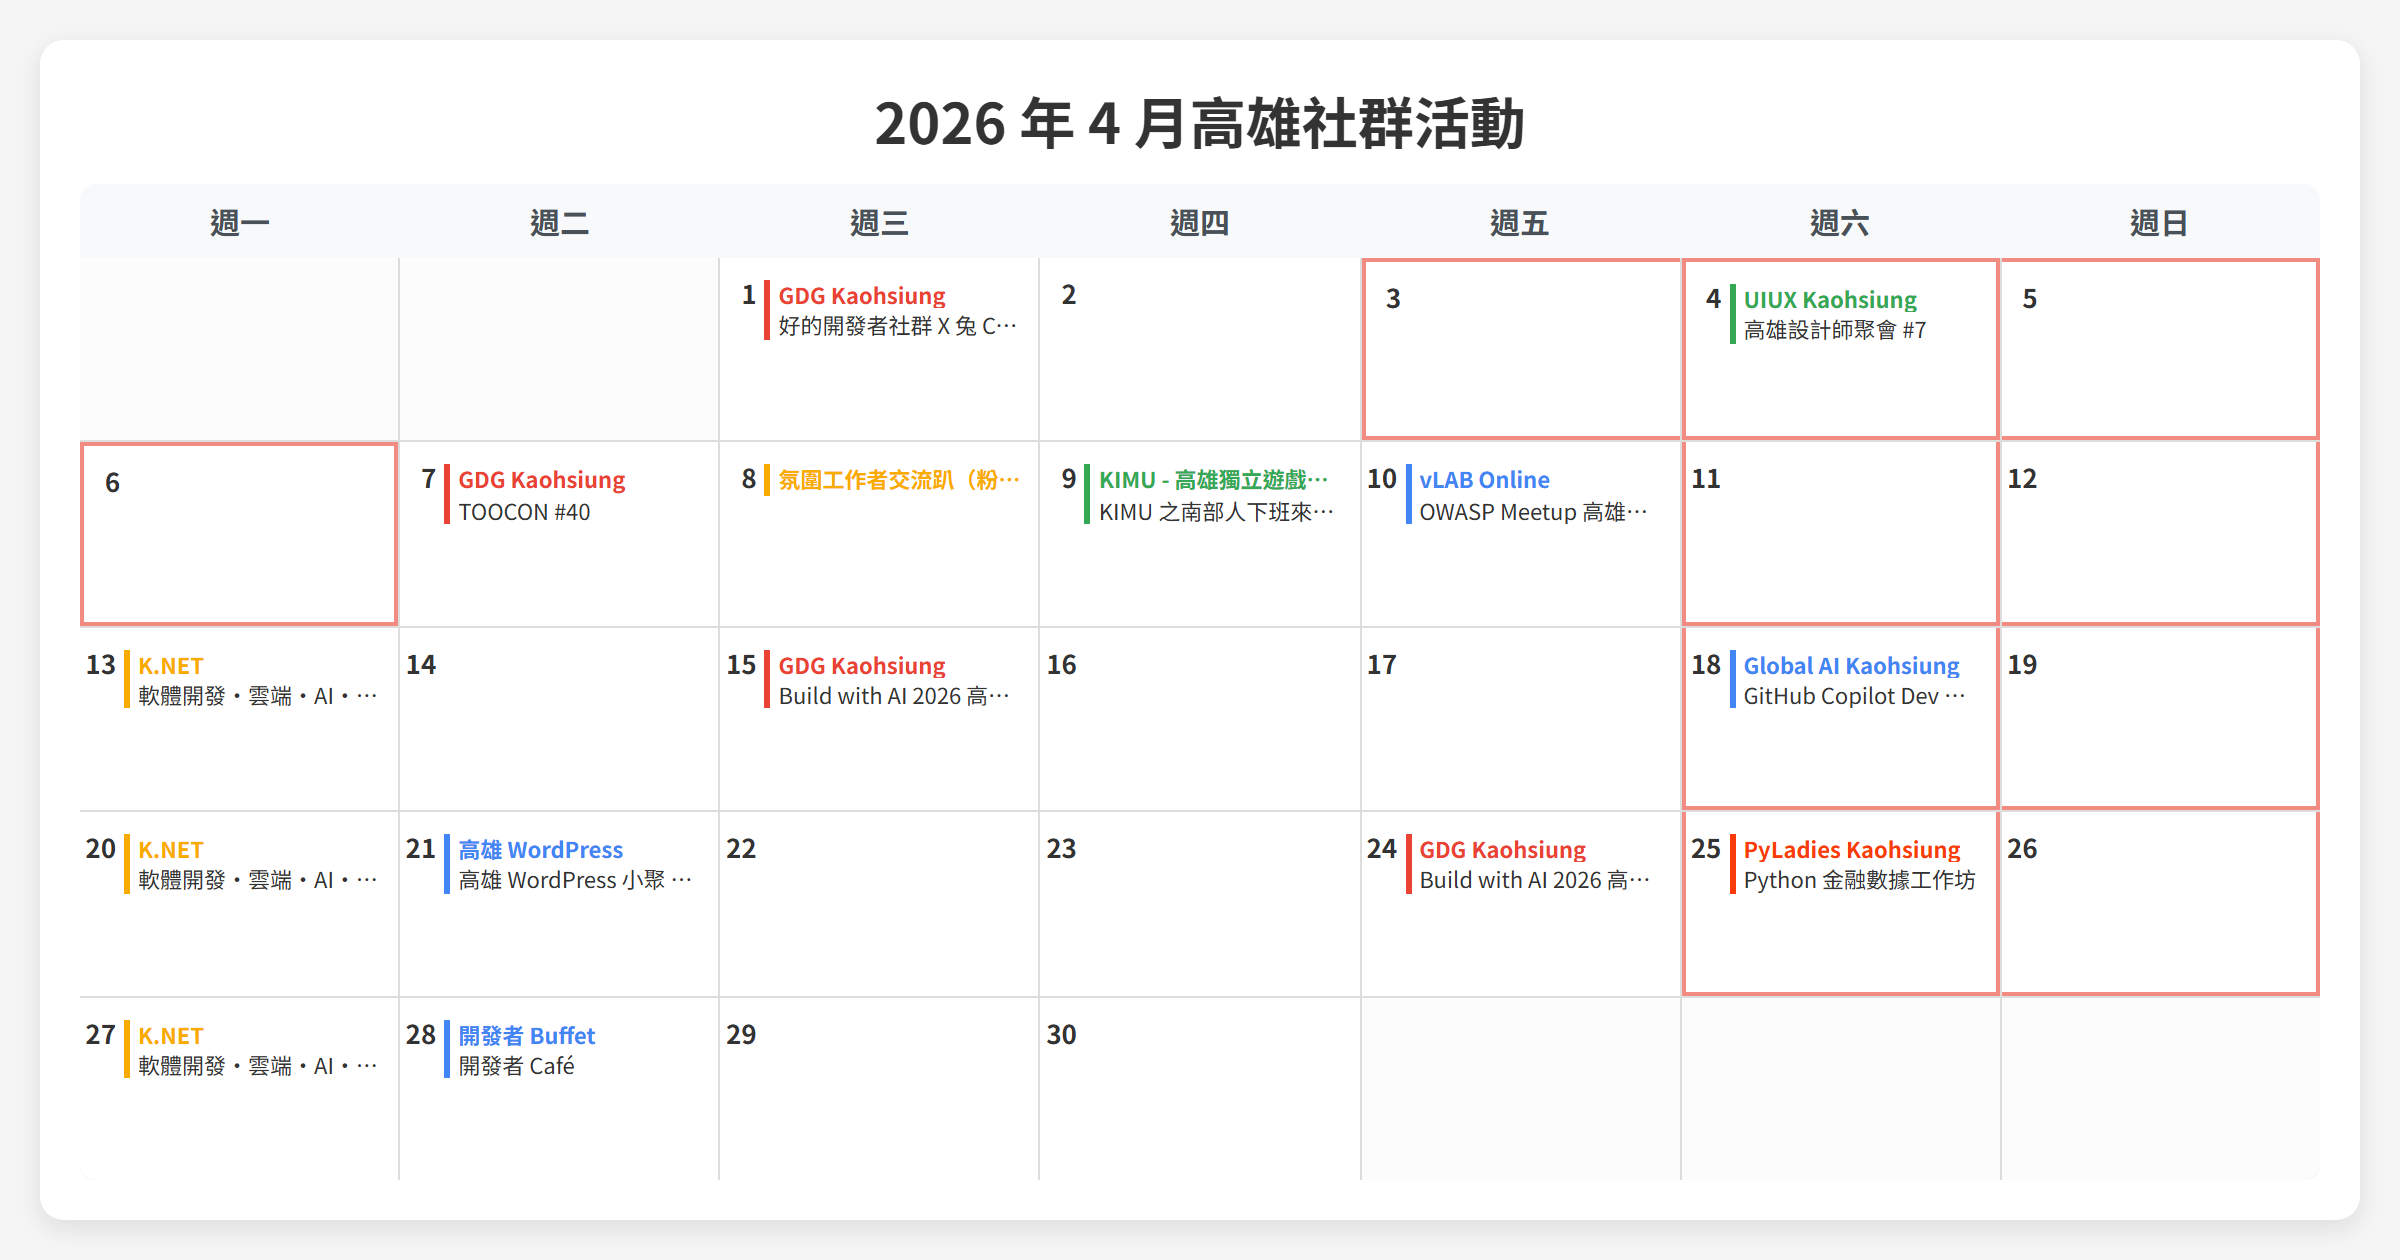
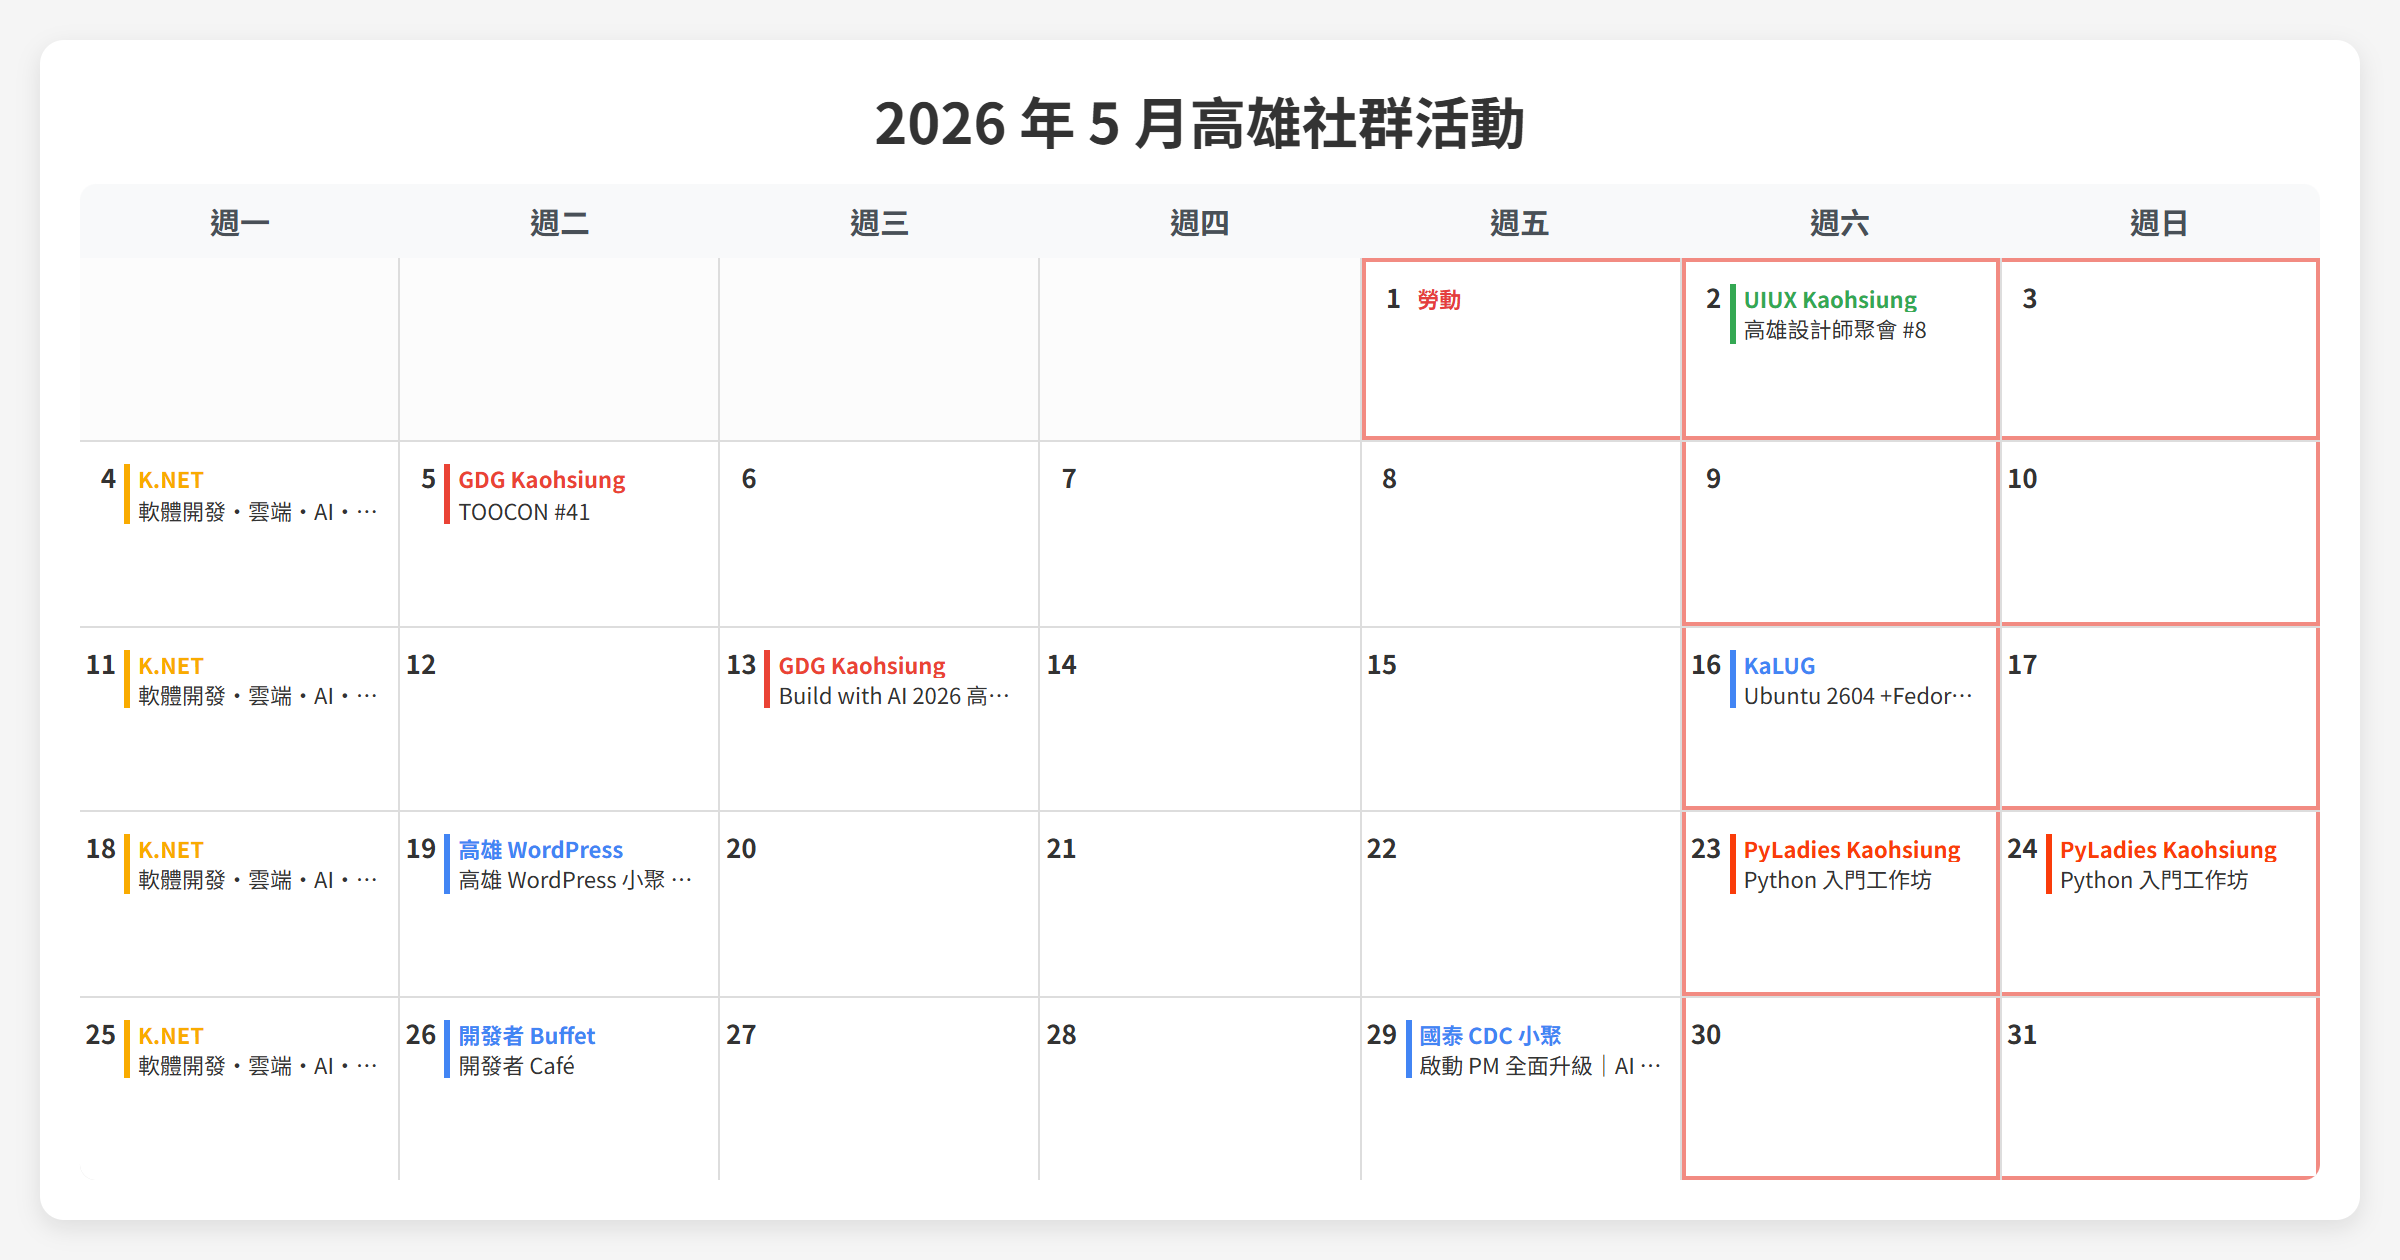
fix: 修正 OG 圖片月曆空白並補上假日名稱顯示
scripts/calendar-template.html 中 {{HOLIDAYS_JSON}} 佔位符被斷行成 `{ { HOLIDAYS_JSON } }`，導致 generate-og-images.js 的取代正則無法命中，瀏覽器執行時拋出 ReferenceError，renderCalendar() 中止使整個月曆格子空白。

- 修復佔位符為單行 {{HOLIDAYS_JSON}}
- 改用 holidayMap 對齊 2026/calendar.html 作法
- 新增 .date-row / .holiday-label 樣式並於假日格顯示假日名稱

diff --git a/scripts/calendar-template.html b/scripts/calendar-template.html
@@ -152,6 +152,29 @@
             padding-top: 0;
         }
 
+        .date-row {
+            display: flex;
+            align-items: baseline;
+            gap: 4px;
+            margin-bottom: 0;
+            min-width: 0;
+            overflow: hidden;
+        }
+
+        .date-row .date-number {
+            margin-bottom: 0;
+        }
+
+        .holiday-label {
+            font-size: 11px;
+            color: #e53e3e;
+            font-weight: bold;
+            overflow: hidden;
+            white-space: nowrap;
+            text-overflow: ellipsis;
+            min-width: 0;
+        }
+
         .events-container {
             flex: 1;
             display: flex;
@@ -220,7 +243,7 @@
         }
         }
         ;
-        const holidaySet = new Set(holidays.map(h => h.date));
+        const holidayMap = new Map(holidays.map(h => [h.date, h.name]));
 
         function renderCalendar() {
             const grid = document.getElementById('calendar-grid');
@@ -263,7 +286,8 @@
 
                 const weekendClass = isSaturday ? ' saturday' : (isSunday ? ' sunday' : '');
                 const topBorderClass = needTopBorder ? ' weekend-top' : '';
-                const isHoliday = holidaySet.has(dateStr) && !isWeekend;
+                const holidayName = !isWeekend ? holidayMap.get(dateStr) : undefined;
+                const isHoliday = !!holidayName;
                 let holidayClass = '';
                 if (isHoliday) {
                     let needHolidayTop;
@@ -271,7 +295,7 @@
                         needHolidayTop = true;
                     } else {
                         const prevDateStr = `${year}-${String(month).padStart(2, '0')}-${String(day - 7).padStart(2, '0')}`;
-                        needHolidayTop = !holidaySet.has(prevDateStr);
+                        needHolidayTop = !holidayMap.has(prevDateStr);
                     }
                     holidayClass = ' holiday' + (needHolidayTop ? ' holiday-top' : '');
                 }
@@ -279,7 +303,9 @@
                 const dayEvents = events.filter(e => e.date === dateStr);
 
                 html += `<div class="calendar-day${weekendClass}${topBorderClass}${holidayClass}">
-                    <div class="date-number">${day}</div>
+                    ${isHoliday
+                    ? `<div class="date-row"><span class="date-number">${day}</span><span class="holiday-label">${holidayName}</span></div>`
+                    : `<span class="date-number">${day}</span>`}
                     <div class="events-container">`;
 
                 // If 3+ events on same day, only show community name